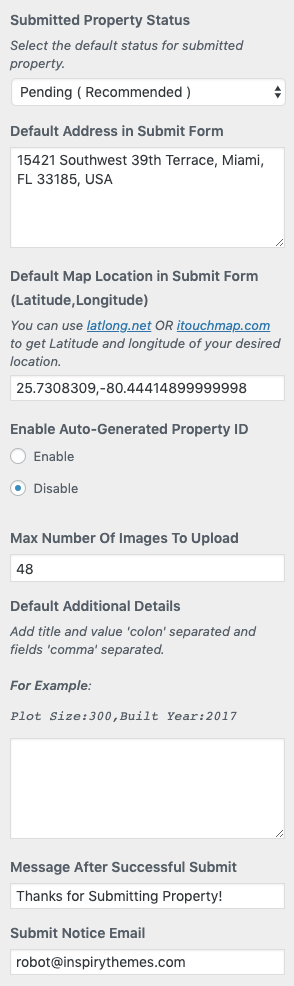
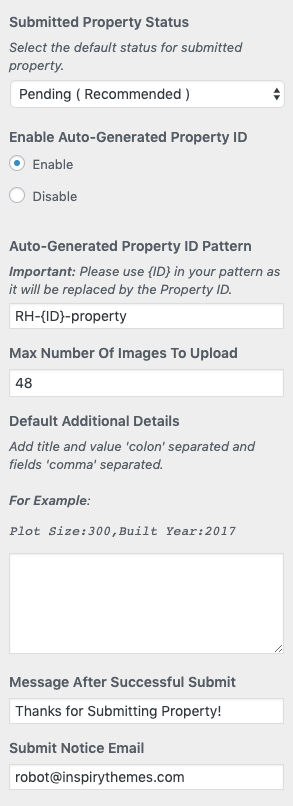
Updated ‘Default Address & Map Location in Submit Form” section.

Changed region(s): [[0.0307, 0.0, 0.9522, 0.8065], [0.0307, 0.8375, 0.8294, 0.9926], [0.9215, 0.0931, 0.9522, 0.1241]]

diff --git a/docs/submit-property.md b/docs/submit-property.md
@@ -49,14 +49,6 @@ You can change the status of the newly submitted property. You can either select
 
 ![Submit Property](images/member-pages/submitted-property-status.png)
 
-### **Default Address & Map Location in Submit Form**
-
-You can change the **Default Address** which is shown in **Submit Property** page. 
-
-You can also modify the longitude and latitude of the default map location. Please make sure that you add the coordinates properly, adding bad coordinates will result in the issues accessing the Submit Property or Add New Property page.
-
-![Submit Property](images/member-pages/default-address-coordinates.png)
-
 ### **Auto-Generated Property ID**
 
 You can enable/disable **Auto-Generated Property ID** for your properties, if you will activate the **Auto-Generated Property ID** then you will not be able to edit the **Property ID** anymore. You can also provide a pattern of your choice for the **Property ID** field.
@@ -80,6 +72,14 @@ The message which is shown after successful submission of the property can also 
 The email address where you want to get the notification of new property listing submissions are also changed here.
 
 ![Submit Property](images/member-pages/submit-notice-email.png)
+
+### **Default Address & Map Location in Submit Form**
+
+You can change the **Default Address** which is shown in **Submit Property** page from **Maps** Settings (**Easy Real Estate → Settings → Maps**). 
+
+You can also modify the longitude and latitude of the default map location. Please make sure that you add the coordinates properly, adding bad coordinates will result in the issues accessing the Submit Property or Add New Property page.
+
+![Real Homes Documentation](images/ere-tabs/maps.png)
 
 Save the changes and your **Submit Property** page is ready for use. 
 
